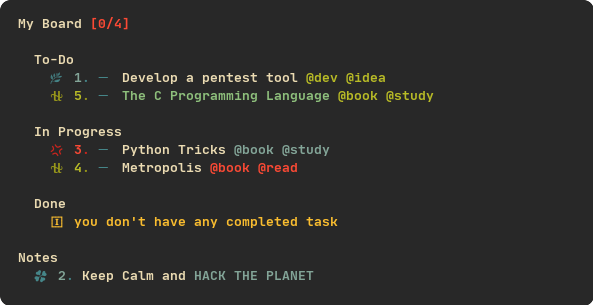
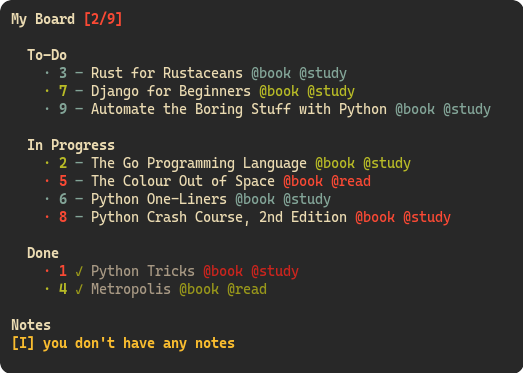
update

diff --git a/src/ugly_todo/cli.py b/src/ugly_todo/cli.py
@@ -1,0 +1,59 @@
+from typing import Any
+
+from colored import attr, fg
+
+from .util import PaddingSize, notify, print_pad
+
+PRIORITY_COLOR = {"1": f"{fg(9)}", "2": f"{fg(10)}", "3": f"{fg(12)}"}
+
+
+def item_section(
+    title: str,
+    items: list[str],
+    notify_suffix: str,
+    title_padding: PaddingSize = (0, 0, 3),
+    item_padding: PaddingSize = (0, 0, 5),
+) -> None:
+    print_pad(f"{attr(1)}{fg(15)}{title}{attr(0)}", title_padding)
+    if items:
+        [print_pad(item, item_padding) for item in items]
+    else:
+        notify(f"you don't have any {notify_suffix}", "info", title_padding)
+    print()
+
+
+def show(ugly_list: dict[str, Any]) -> None:
+    if ugly_list:
+        tasks_todo: list[str] = []
+        tasks_progress: list[str] = []
+        tasks_done: list[str] = []
+        notes: list[str] = []
+
+        for id_, item in ugly_list.items():
+            id_ = f"{attr(1)}·{id_:>2}{attr(0)}"
+            if item.get("is_task"):
+                name, tags, priority, _, is_done, in_progress = item.values()
+                done_icon = f"{attr(2)}{fg(10)}✓" if is_done else f"{fg(12)}–"
+                color = PRIORITY_COLOR[priority]
+                task = f"{color}{id_} {done_icon} {fg(15)}{name} {color}{tags}{attr(0)}"
+
+                if in_progress:
+                    tasks_progress.append(task)
+                elif is_done:
+                    tasks_done.append(task)
+                else:
+                    tasks_todo.append(task)
+            else:
+                name, _ = item.values()
+                notes.append(f"{fg(14)}{id_} → {fg(15)}{name}")
+
+        total_tasks = sum([len(tasks_todo), len(tasks_progress), len(tasks_done)])
+        board_total = f"{fg(9)}[{len(tasks_done)}/{total_tasks}]"
+        print_pad(f"{attr(1)}My Board {board_total}{attr(0)}", (1, 1, 1))
+
+        item_section("To-Do", tasks_todo, "tasks to do")
+        item_section("In Progress", tasks_progress, "tasks in progress")
+        item_section("Done", tasks_done, "completed tasks")
+        item_section("Notes", notes, "notes", (0, 0, 1), (0, 0, 3))
+    else:
+        notify("No task/note has been created.", "info", (1, 1, 1))

diff --git a/src/ugly_todo/utd.py b/src/ugly_todo/utd.py
@@ -3,7 +3,7 @@ from dataclasses import asdict, dataclass
 from pathlib import Path
 from typing import Any
 
-from ugly_todo.util import notify
+from .util import notify
 
 
 @dataclass(slots=True)
@@ -50,10 +50,10 @@ class UglyToDo:
             name = " ".join(item for item in items if not item.startswith("@"))
             tags = " ".join(item for item in items if item.startswith("@"))
             self.ugly_list[id_] = asdict(Task(name, tags, priority))
-            notify(f"Task created: {id_}")
+            notify(f"Task created: {id_}", pad=(1, 1, 1))
         else:
             self.ugly_list[id_] = asdict(Note(" ".join(items)))
-            notify(f"Note created: {id_}")
+            notify(f"Note created: {id_}", pad=(1, 1, 1))
         self.save_to_json()
 
     def invert_key_values(self, id_list: list[str], key_1: str, key_2: str) -> None:
@@ -70,7 +70,7 @@ class UglyToDo:
                 not_found.append(id_)
 
         if not_found:
-            notify(f"It's a note or couldn't find task: {' '.join(not_found)}", "error")
+            notify(f"note or couldn't find: {' '.join(not_found)}", "error", (1, 1, 1))
         self.save_to_json()
 
     def check(self, id_list: list[str]) -> None:
@@ -91,10 +91,10 @@ class UglyToDo:
                 not_found.append(id_)
 
         if deleted:
-            notify(f"Deleted item(s): {' '.join(deleted)}")
+            notify(f"deleted: {' '.join(deleted)}", pad=(1, 1, 1))
 
         if not_found:
-            notify(f"Couldn't find item(s): {' '.join(not_found)}", "error")
+            notify(f"couldn't find: {' '.join(not_found)}", "error", (1, 1, 1))
         self.save_to_json()
 
     def clear(self) -> None:
@@ -102,7 +102,7 @@ class UglyToDo:
         if id_list := list(id_list):
             self.remove(id_list)
         else:
-            notify("No task to be deleted.", "info")
+            notify("no task to be deleted!", "info")
 
     def sort_ids(self) -> None:
         ugly_list_values: list[Any] = list(self.ugly_list.values())

diff --git a/src/ugly_todo/__main__.py b/src/ugly_todo/__main__.py
@@ -1,21 +1,14 @@
 import argparse
 
+from ugly_todo import cli, utd
+
 USAGE_MESSAGE = """
 
 Creating task/note (tags/priority are optional for tasks):
 ~$ %(prog)s -a simple task @tag
-~$ %(prog)s -a Metropolis '[blue]@book @read' -p 1
-~$ %(prog)s -n Keep Calm and '[i s blue]HACK THE PLANET'
-
-Rich options:
-[color] -> color name
-[d] -> dim
-[i] -> italic
-[s] -> strike
-[u] -> underline
-
+~$ %(prog)s -a Metropolis @book @read -p 1
+~$ %(prog)s -n Keep Calm and DO SOMETHING
 """
-
 
 parser = argparse.ArgumentParser(
     usage=USAGE_MESSAGE,
@@ -83,4 +76,38 @@ parser.add_argument(
     help="sort all tasks/notes IDs",
 )
 
-args = parser.parse_args()
+
+def main() -> None:
+    args = parser.parse_args()
+    todo = utd.UglyToDo()
+
+    if task := args.add:
+        if priority := args.priority:
+            todo.add(task, priority[0])
+        else:
+            todo.add(task)
+
+    elif note := args.note:
+        todo.add(note, is_task=False)
+
+    elif id_list := args.check:
+        todo.check(id_list)
+
+    elif id_list := args.begin:
+        todo.begin(id_list)
+
+    elif id_list := args.remove:
+        todo.remove(id_list)
+
+    elif args.clear:
+        todo.clear()
+
+    elif args.sort:
+        todo.sort_ids()
+
+    else:
+        cli.show(todo.ugly_list)
+
+
+if __name__ == "__main__":
+    main()

diff --git a/src/ugly_todo/util.py b/src/ugly_todo/util.py
@@ -1,0 +1,22 @@
+from colored import attr, fg
+
+NOTIFICATION_TYPE = {
+    "success": f"{fg(10)}[S]",
+    "info": f"{fg(11)}[I]",
+    "error": f"{fg(9)}[X]",
+}
+
+PaddingSize = tuple[int, int, int]
+
+
+def print_pad(text: str, pad: PaddingSize = (0, 0, 0)) -> None:
+    top, bottom, tab = pad
+    if top:
+        print("\n" * top, end="")
+    print(" " * tab + text) if tab else print(text)
+    if bottom:
+        print("\n" * bottom, end="")
+
+
+def notify(message: str, type_: str = "success", pad: PaddingSize = (0, 0, 0)) -> None:
+    print_pad(f"{attr(1)}{NOTIFICATION_TYPE[type_]} {message}{attr(0)}", pad)

diff --git a/README.md b/README.md
@@ -74,24 +74,6 @@ Add a note:
 utd -n Keep Calm and STUDY
 ```
 
-Using options from rich module:
-
-```bash
-utd -a Metropolis '[red]@book @read'
-```
-
-```bash
-utd -n Keep Calm and '[i s blue]HACK THE PLANET'
-```
-
-Some useful options:
-
-- [color] -> color name
-- [d] -> dim
-- [i] -> italic
-- [s] -> strike
-- [u] -> underline
-
 ## You might be interested
 
 - [utd (made in rust)](https://github.com/kawaki-san/utd-rs)
